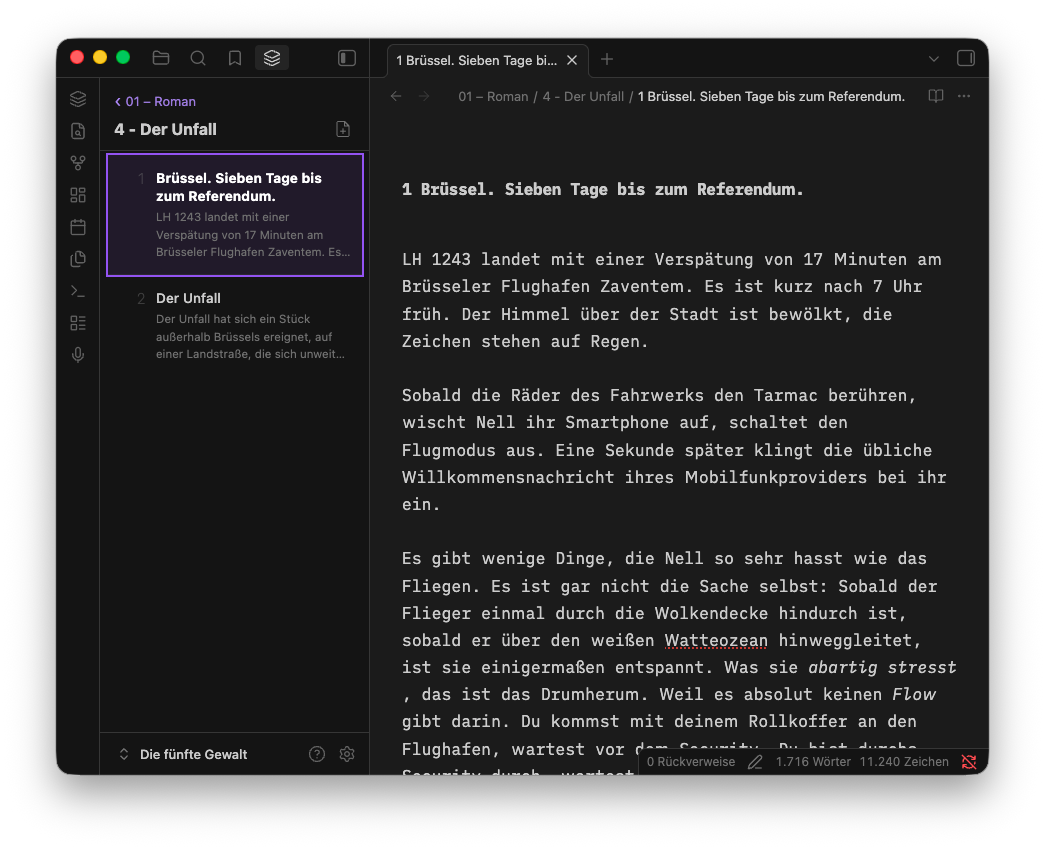
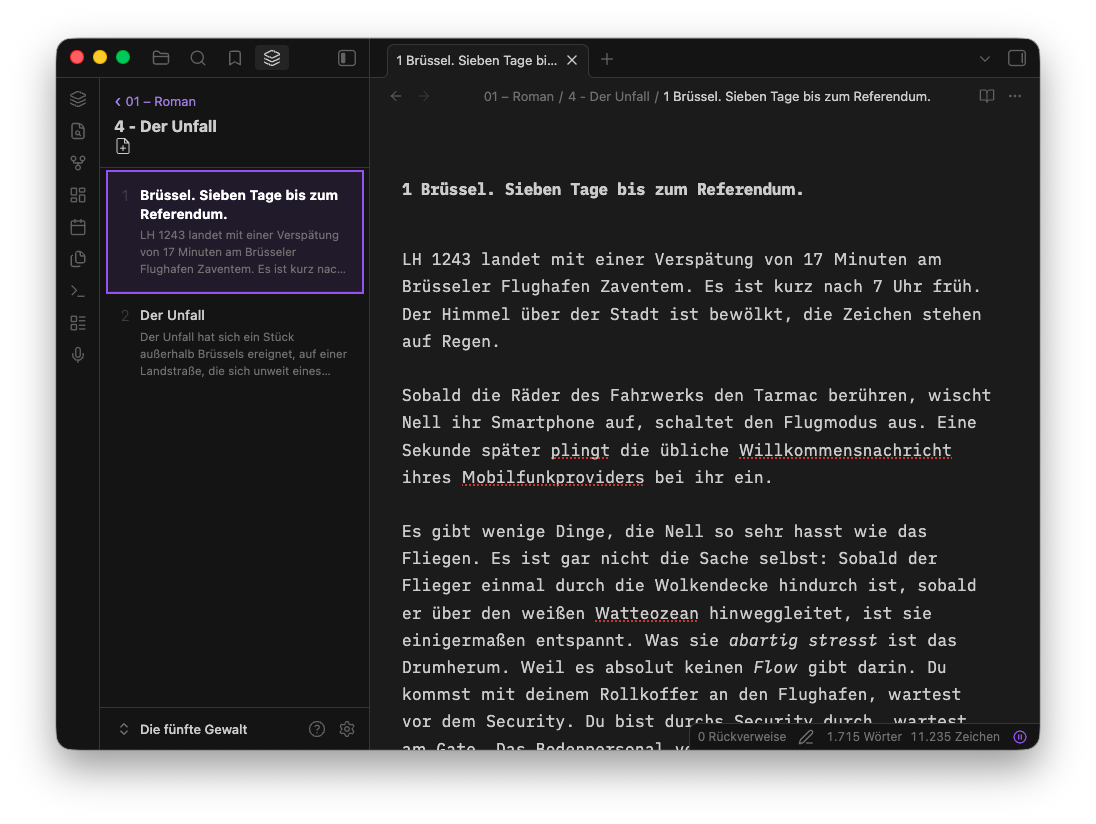
Add copy path options to context menu, update screenshot
Add "Copy vault path" and "Copy absolute path" to the right-click
context menu with toast notifications. Update screenshot to reflect
current UI.

diff --git a/src/main.ts b/src/main.ts
@@ -10,6 +10,8 @@ import {
   Setting,
   PluginSettingTab,
   App,
+  FileSystemAdapter,
+  Notice,
 } from "obsidian";
 
 const VIEW_TYPE = "sheet-navigator-view";
@@ -539,6 +541,33 @@ class SheetNavigatorView extends ItemView {
           );
           if (confirmed) {
             await this.app.vault.trash(abstractFile, true);
+          }
+        });
+    });
+
+    menu.addSeparator();
+
+    menu.addItem((item) => {
+      item
+        .setTitle("Copy vault path")
+        .setIcon("copy")
+        .onClick(() => {
+          navigator.clipboard.writeText(abstractFile.path);
+          new Notice("Vault path copied");
+        });
+    });
+
+    menu.addItem((item) => {
+      item
+        .setTitle("Copy absolute path")
+        .setIcon("copy")
+        .onClick(() => {
+          const adapter = this.app.vault.adapter;
+          if (adapter instanceof FileSystemAdapter) {
+            const absPath =
+              adapter.getBasePath() + "/" + abstractFile.path;
+            navigator.clipboard.writeText(absPath);
+            new Notice("Absolute path copied");
           }
         });
     });
